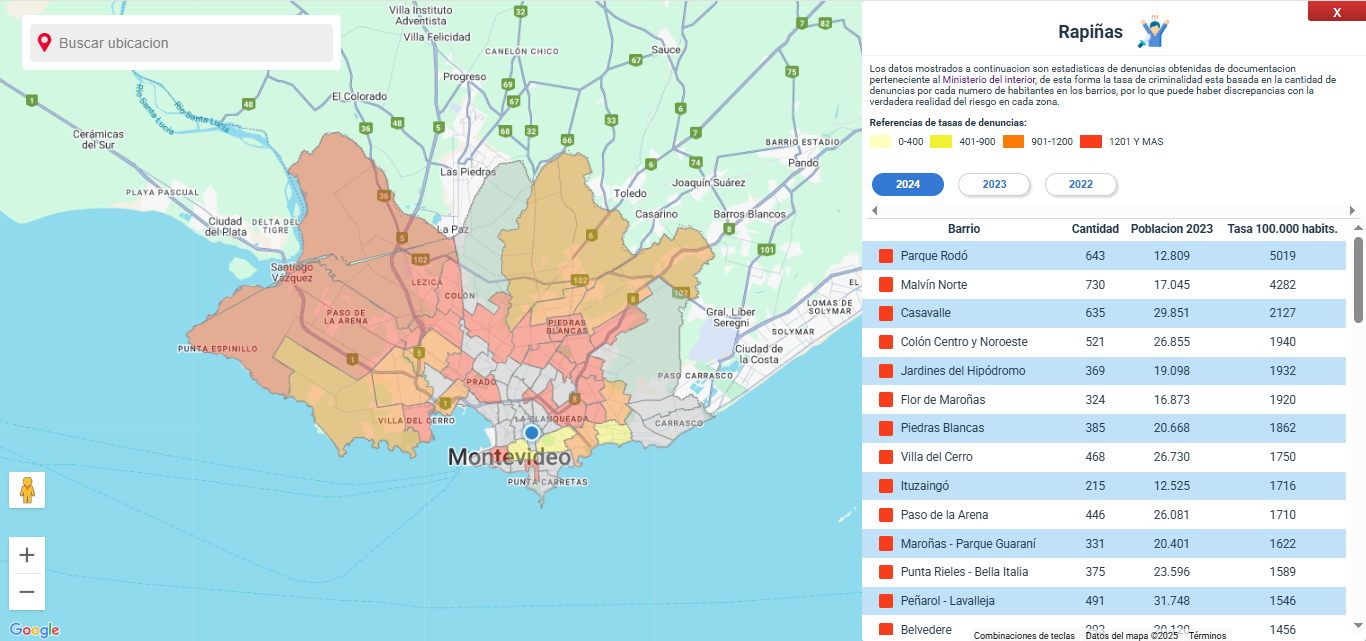
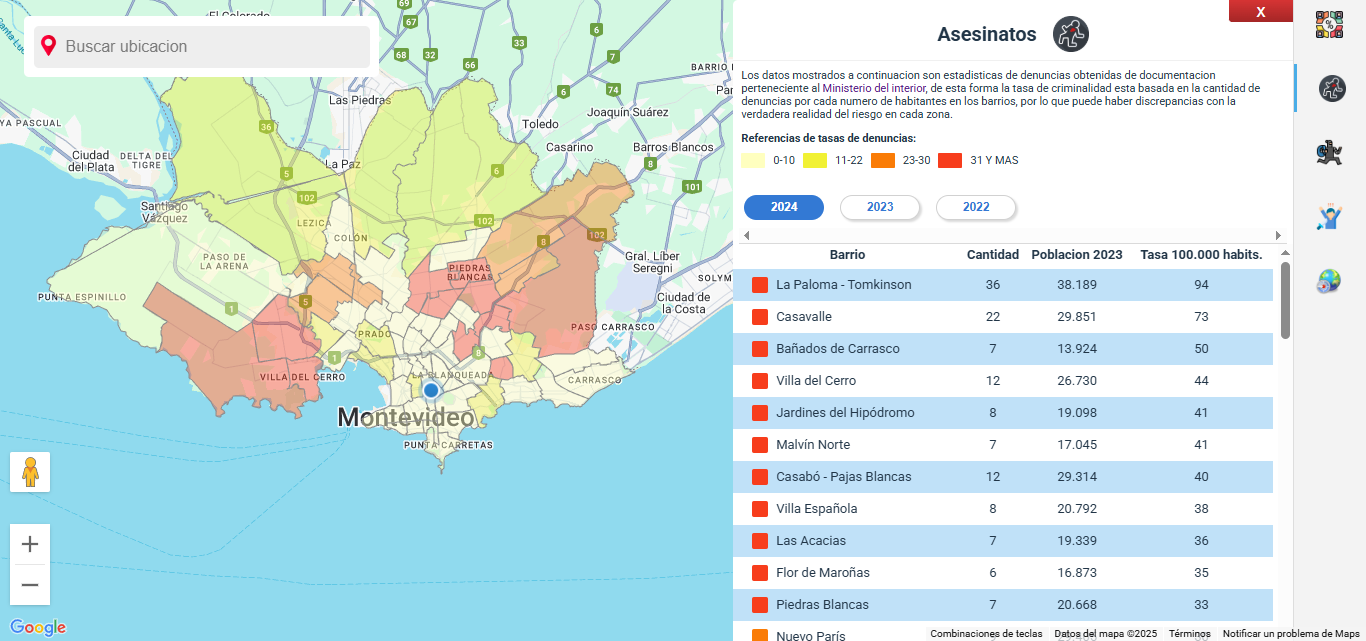
Readme.md changed

diff --git a/frontend/src/components/map/optionsCrimes/OptionsCrimes.jsx b/frontend/src/components/map/optionsCrimes/OptionsCrimes.jsx
@@ -46,9 +46,11 @@ export const OptionsCrimes = () => {
   const handleClickOption = (crime) => {
     loadCrimeDataNeighborhoods(crime.category);
     setCrimeSelected(crime.category);
+    setShowQuizes();
   };
   const handleClickQuizes = () => {
     if (!showQuizes) {
+      setCrimeSelected();
       loadDataQuizes();
       setShowQuizes(true);
     }
@@ -56,38 +58,6 @@ export const OptionsCrimes = () => {
 
   return (
     <div className={styles.containOptionsCrimes}>
-      {crimes && (
-        <ul className={styles.menuOptionsCrimes}>
-          <div className={styles.contentMenu}>
-            <li onClick={handleClickQuizes}>
-              Percepcion
-              <img src={iconQuizes}></img>
-            </li>
-
-            {crimes.map((crime, index) => (
-              <li key={index} onClick={() => handleClickOption(crime)}>
-                {crime.category}
-                <img
-                  src={
-                    crime.category == "Hurto"
-                      ? iconTheft
-                      : crime.category == "Rapiña"
-                      ? iconHoldup
-                      : crime.category == "Asesinato"
-                      ? iconKill
-                      : ""
-                  }
-                ></img>
-              </li>
-            ))}
-          </div>
-          <li className={styles.myLocation} onClick={handleMyLocation}>
-            {loadingMyLocation ? "localizando..." : "Mi ubicacion"}
-            <img src={myLocation}></img>
-          </li>
-        </ul>
-      )}
-
       {crimeSelected && (
         <CrimeNeighbordhoods
           categoryCrime={crimeSelected}
@@ -95,6 +65,41 @@ export const OptionsCrimes = () => {
         />
       )}
       {showQuizes && <ContainQuizes />}
+
+      {crimes && (
+        <ul className={styles.menuOptionsCrimes}>
+          <li
+            className={showQuizes ? styles.selected : ""}
+            onClick={handleClickQuizes}
+          >
+            <img src={iconQuizes}></img>
+          </li>
+
+          {crimes.map((crime, index) => (
+            <li
+              className={crime.category == crimeSelected ? styles.selected : ""}
+              key={index}
+              onClick={() => handleClickOption(crime)}
+            >
+              <img
+                src={
+                  crime.category == "Hurto"
+                    ? iconTheft
+                    : crime.category == "Rapiña"
+                    ? iconHoldup
+                    : crime.category == "Asesinato"
+                    ? iconKill
+                    : ""
+                }
+              ></img>
+            </li>
+          ))}
+          <li className={styles.myLocation} onClick={handleMyLocation}>
+            <img src={myLocation}></img>
+            {loadingMyLocation ? "localizando" : ""}
+          </li>
+        </ul>
+      )}
     </div>
   );
 };

diff --git a/frontend/src/components/map/optionsCrimes/OptionsCrimes.module.css b/frontend/src/components/map/optionsCrimes/OptionsCrimes.module.css
@@ -1,48 +1,40 @@
-.containOptionCrimes {
+.containOptionsCrimes {
     display: flex;
-    flex-direction: column;
+    flex-direction: row;
     align-items: start;
-    top: 0;
-    gap: 1rem;
+    justify-content: center;
     height: 100vh;
-    position: relative;
 }
 
 .menuOptionsCrimes {
     margin-top: 0;
     display: flex;
     flex-direction: column;
-    justify-content: space-between;
+    justify-content: start;
     align-items: start;
-    background-color: rgb(54, 54, 54);
-    color: white;
+    background-color: rgb(243, 243, 243);
     gap: 1rem;
+    color: white;
     padding: 0;
-    width: 6rem;
+    width: 4.5rem;
     height: 100vh;
     list-style: none;
-}
-
-.contentMenu {
-    display: flex;
-    flex-direction: column;
-    align-items: start;
-    width: 100%;
+    border-left: 1px solid rgb(221, 221, 221);
 }
 
 .menuOptionsCrimes li {
     display: flex;
-    flex-direction: column-reverse;
     align-items: center;
+    justify-content: center;
     width: 99%;
     font-size: 15px;
-    height: 4rem;
-    border-bottom: 1px solid rgb(44, 44, 44);
-    padding-bottom: 0.3rem;
+    height: 3rem;
     cursor: pointer;
 }
-.menuOptionsCrimes li:hover {
-    border-right: 3px solid white;
+
+.menuOptionsCrimes li:hover,
+.menuOptionsCrimes .selected {
+    border-left: 3px solid rgb(74, 173, 231);
 }
 
 .menuOptionsCrimes li img {
@@ -51,9 +43,14 @@
 }
 
 .menuOptionsCrimes .myLocation {
-    border-top: 1px solid rgb(44, 44, 44);
-    height: 4rem;
+    height: 3rem;
     margin-bottom: 0.5rem;
+    display: flex;
+    flex-direction: column;
+    align-items: center;
+    gap: 0.5rem;
+    color: gray;
+    font-size: 12px;
 }
 
 .menuOptionsCrimes .myLocation img {

diff --git a/frontend/src/components/map/optionsCrimes/crimeNeighData/CrimeNeighbordhoods.module.css b/frontend/src/components/map/optionsCrimes/crimeNeighData/CrimeNeighbordhoods.module.css
@@ -1,15 +1,12 @@
 .containData {
     background: white;
     border-radius: 5px;
-    position: absolute;
-    z-index: 3;
-    top: 0;
-    right: 0;
     width: 35rem;
     height: 100vh;
     display: flex;
     flex-direction: column;
     align-items: center;
+
 }
 
 .containData .header {

diff --git a/frontend/src/components/map/optionsCrimes/crimeNeighData/table/Table.module.css b/frontend/src/components/map/optionsCrimes/crimeNeighData/table/Table.module.css
@@ -59,6 +59,7 @@ td {
     justify-content: start;
     align-items: center;
     gap: 1rem;
+    width: 100%;
     box-shadow: 2px 2px 2px gray;
     padding-bottom: 0.5rem;
     background-color: white;

diff --git a/frontend/src/components/map/quizes/containQuizes/ContainQuizes.module.css b/frontend/src/components/map/quizes/containQuizes/ContainQuizes.module.css
@@ -1,8 +1,6 @@
 .containData {
     background: white;
     border-radius: 5px;
-    position: absolute;
-    z-index: 3;
     top: 0;
     right: 0;
     width: 37rem;
